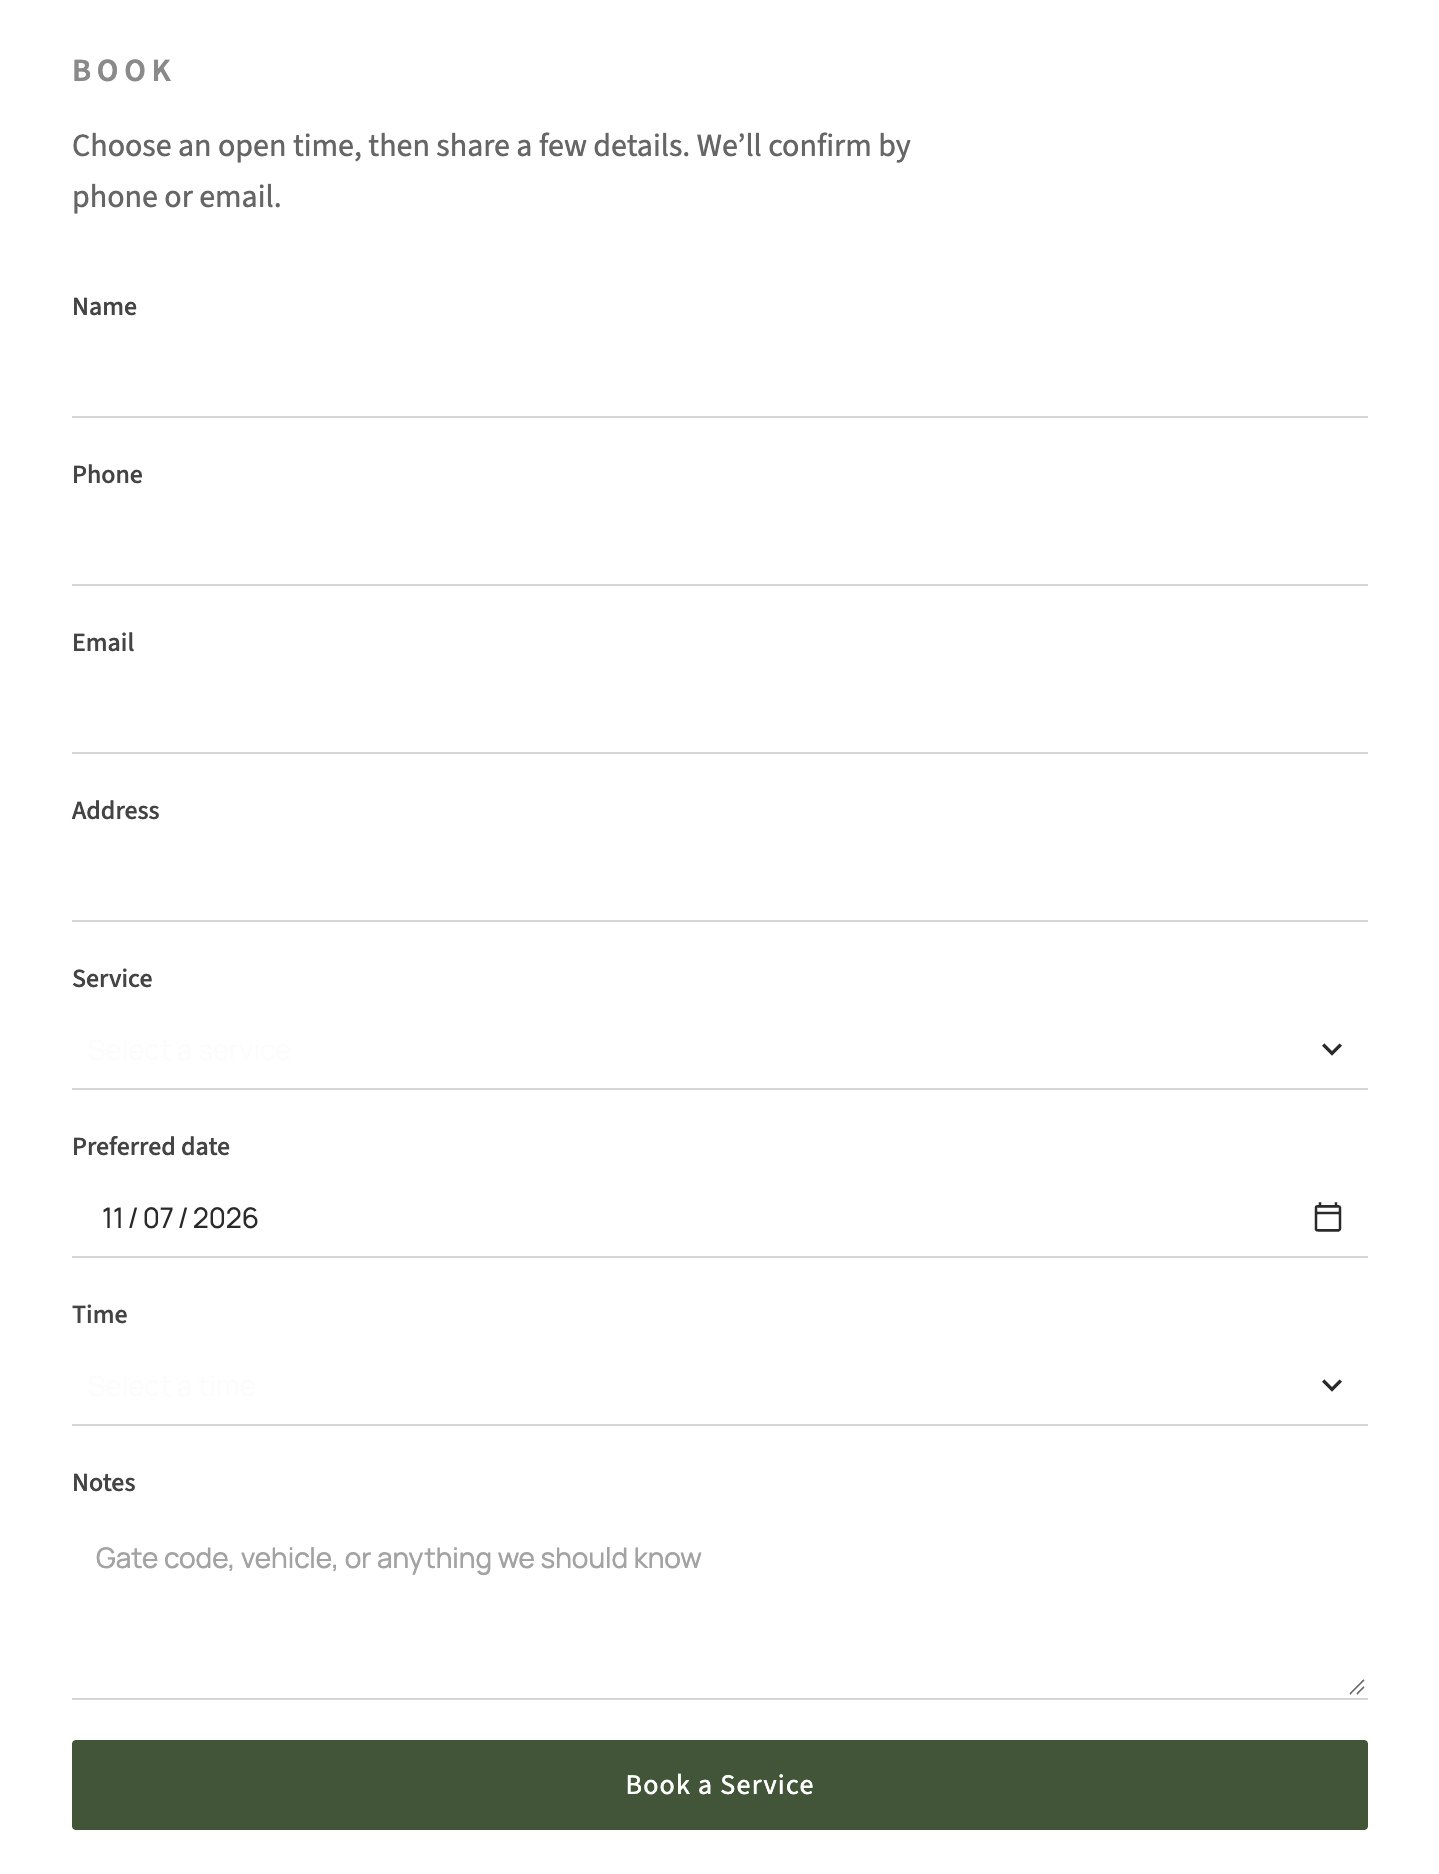
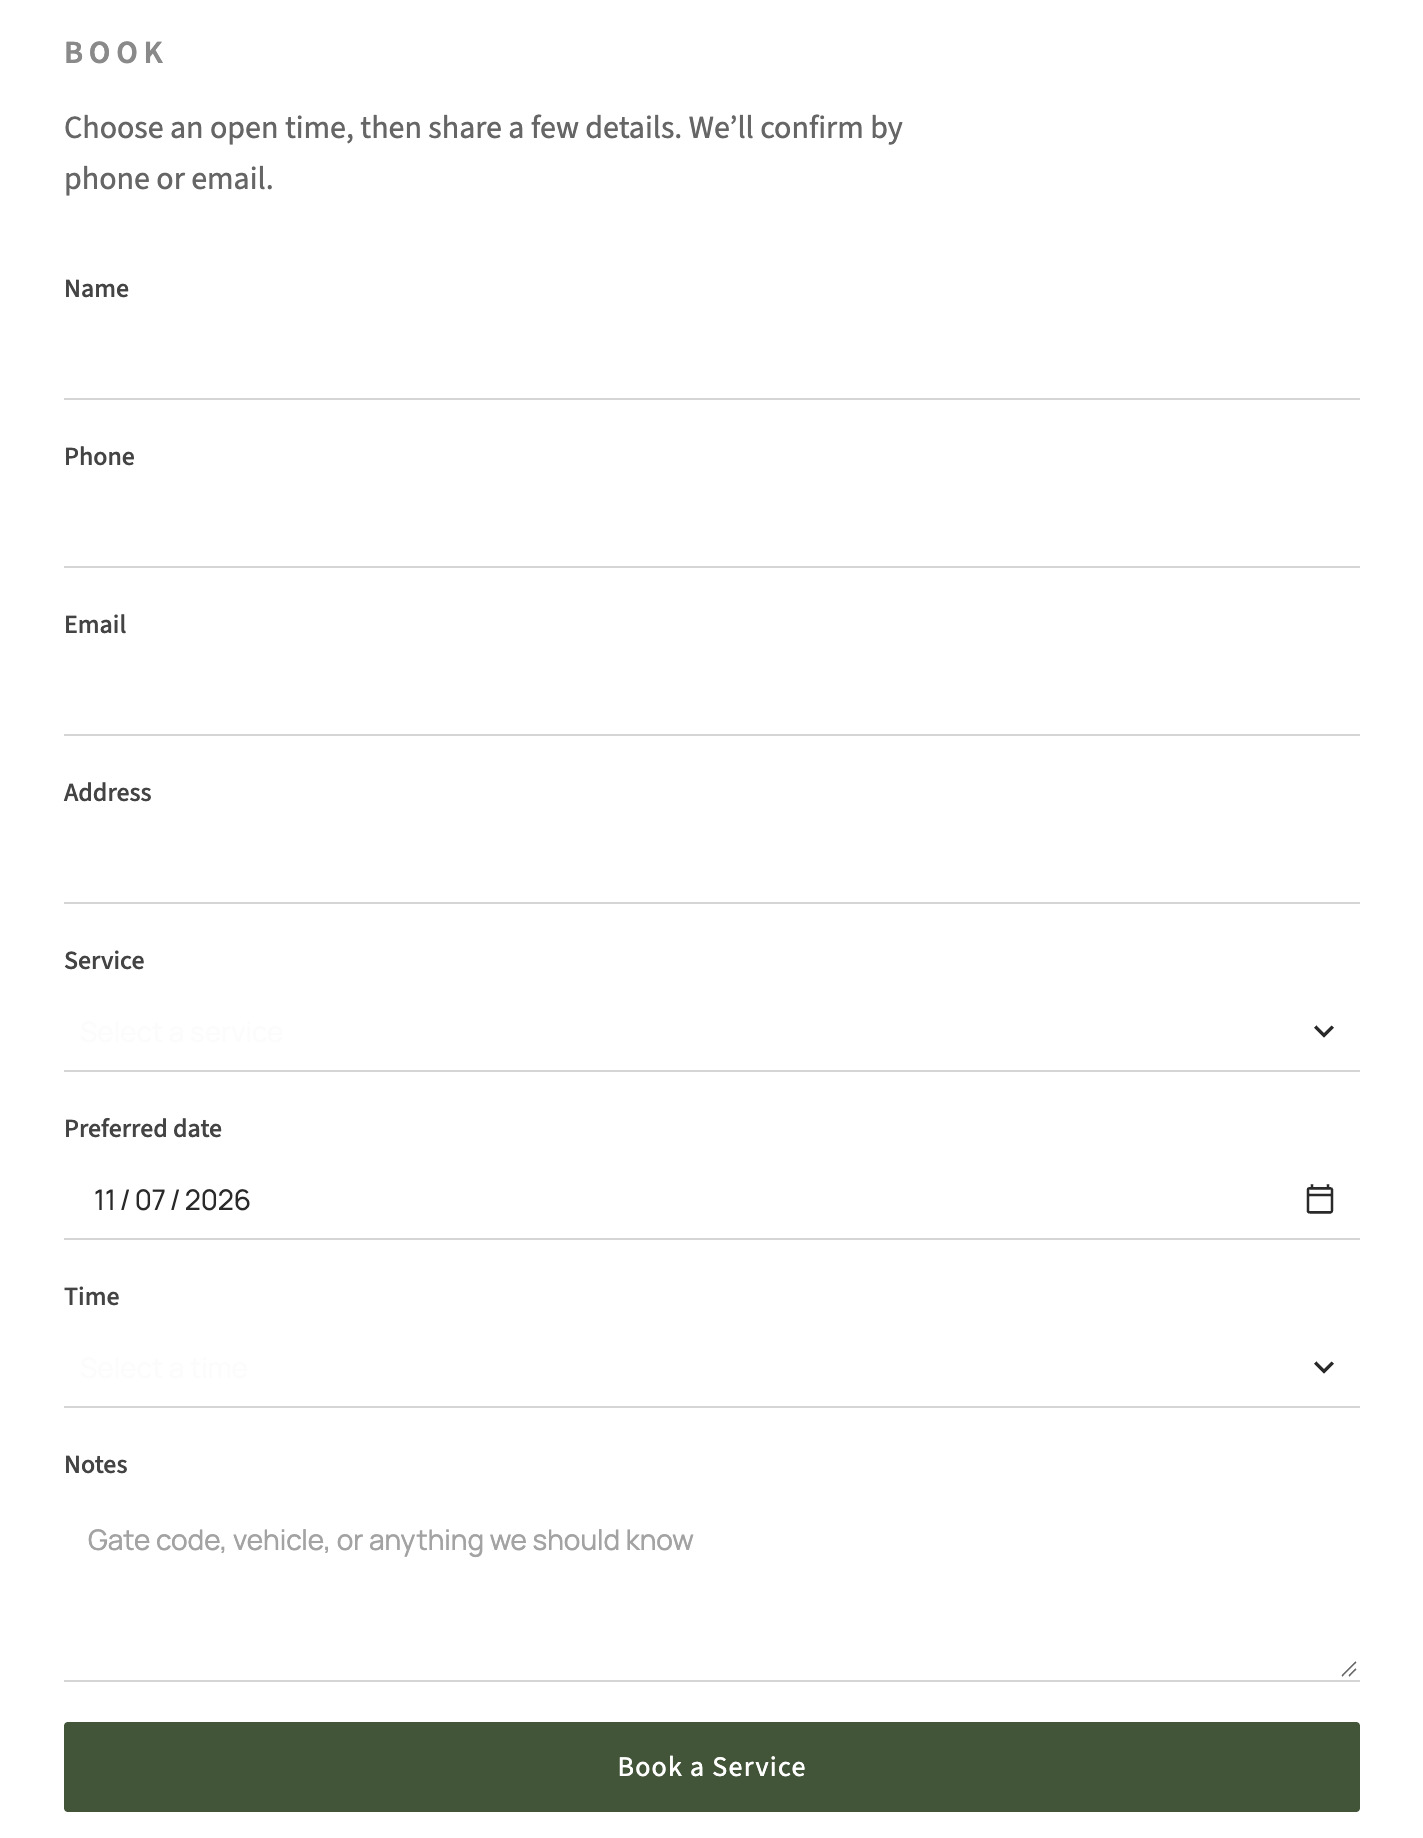
Tighten the ProWash screenshot crops.
The calendar, booking form, and staff appointments are framed on the page content itself, with the browser chrome and the Streamlit Manage app button left out.

diff --git a/portfolio/content.py b/portfolio/content.py
@@ -168,20 +168,20 @@ PROJECTS = (
             {
                 "src": "static/projects/prowash/book.jpg",
                 "alt": "ProWash booking form",
-                "width": 1439,
-                "height": 1874,
+                "width": 1423,
+                "height": 1838,
             },
             {
                 "src": "static/projects/prowash/calendar.jpg",
                 "alt": "Open appointment times, Saturday November 7 through Thursday November 12",
-                "width": 1600,
-                "height": 1090,
+                "width": 1420,
+                "height": 1300,
             },
             {
                 "src": "static/projects/prowash/staff.jpg",
                 "alt": "Staff appointments for Mason, Luke, Noah, and Chase",
-                "width": 1440,
-                "height": 1785,
+                "width": 1424,
+                "height": 1656,
             },
         ),
         "paragraphs": (
